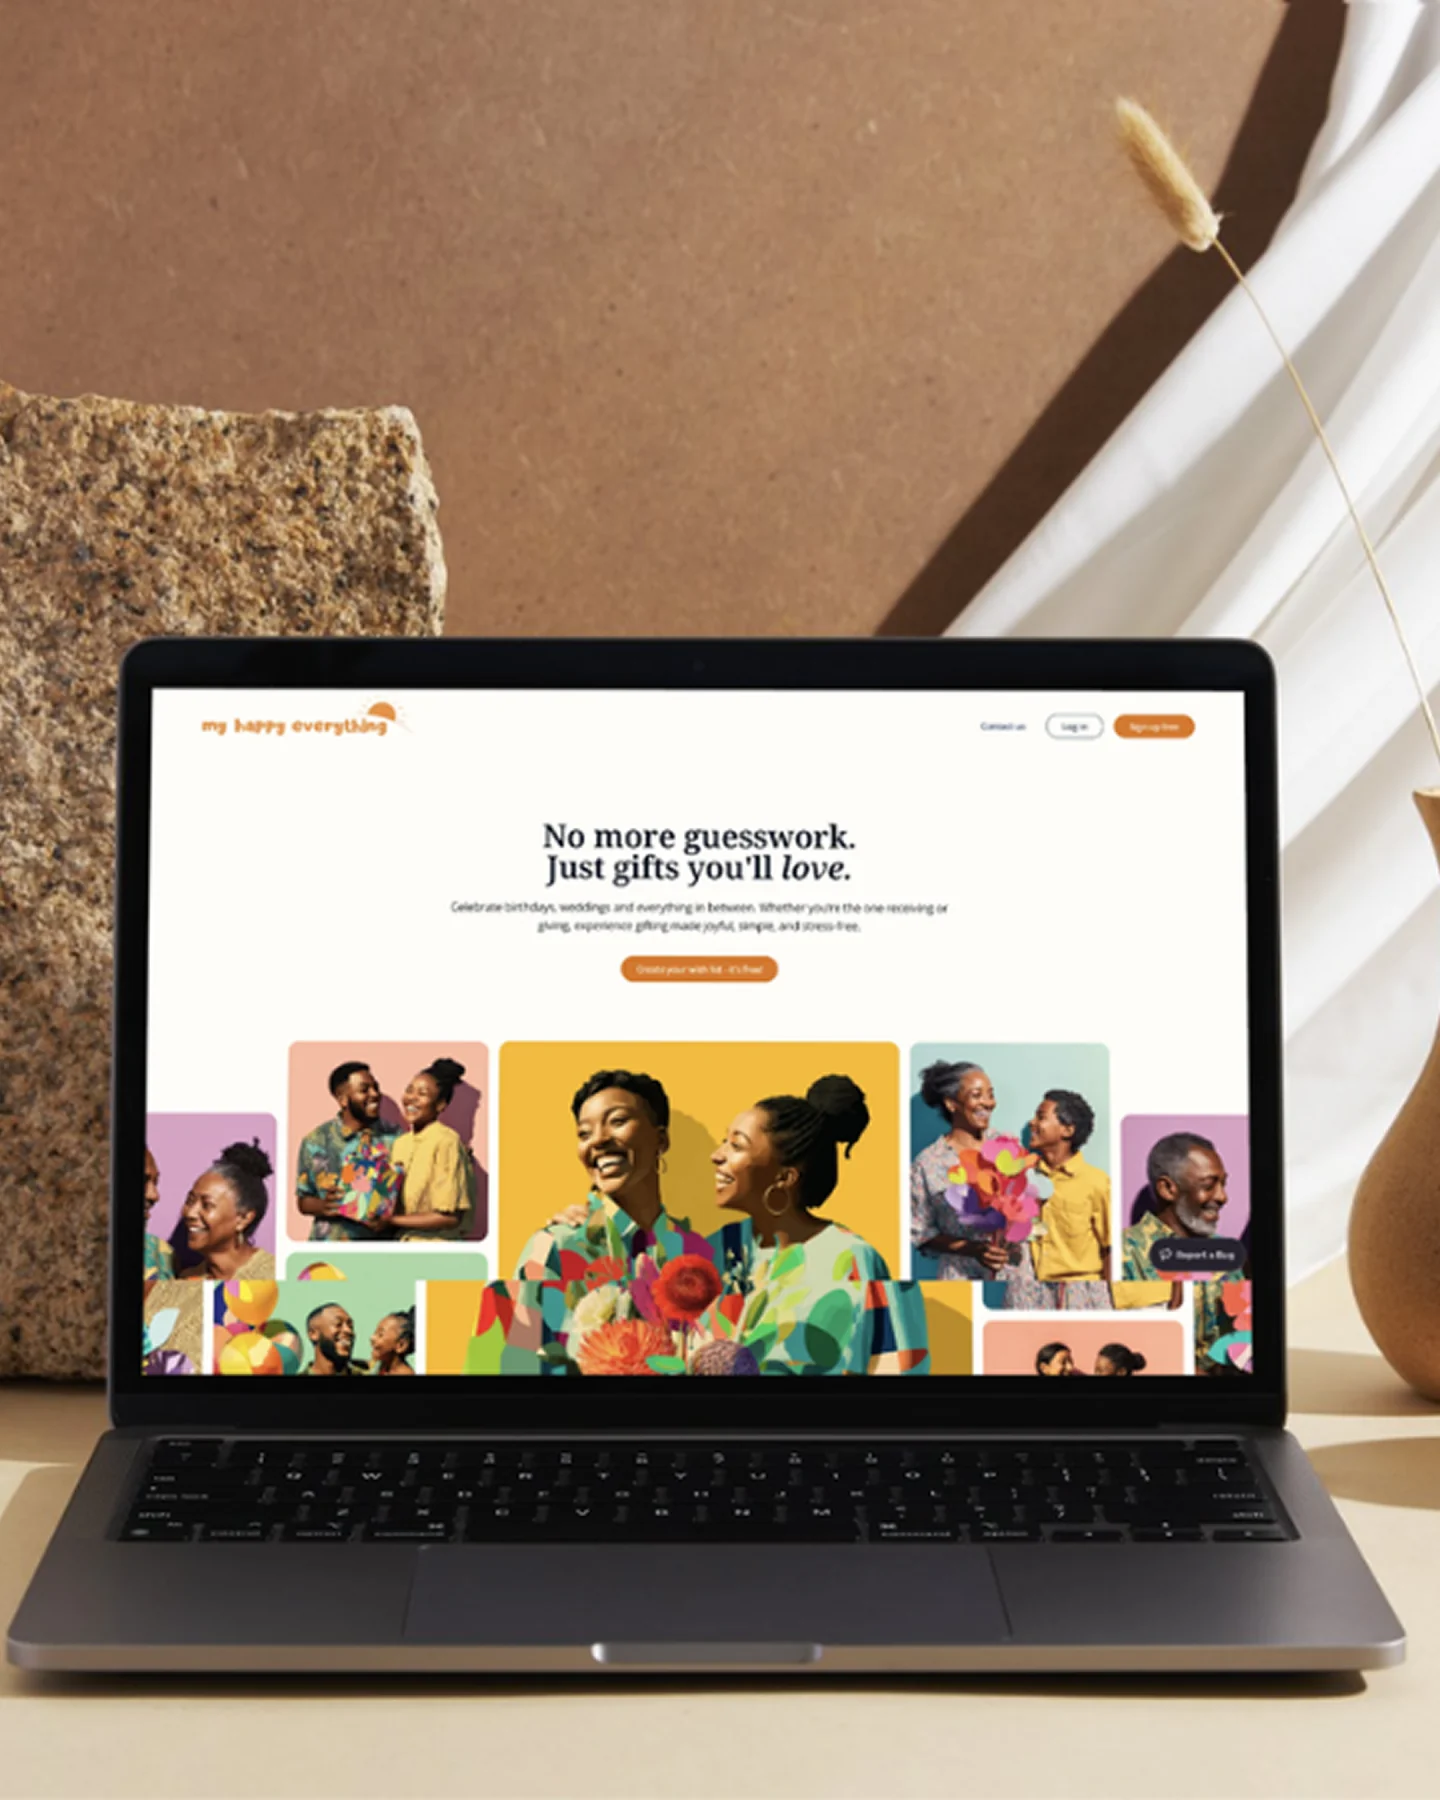
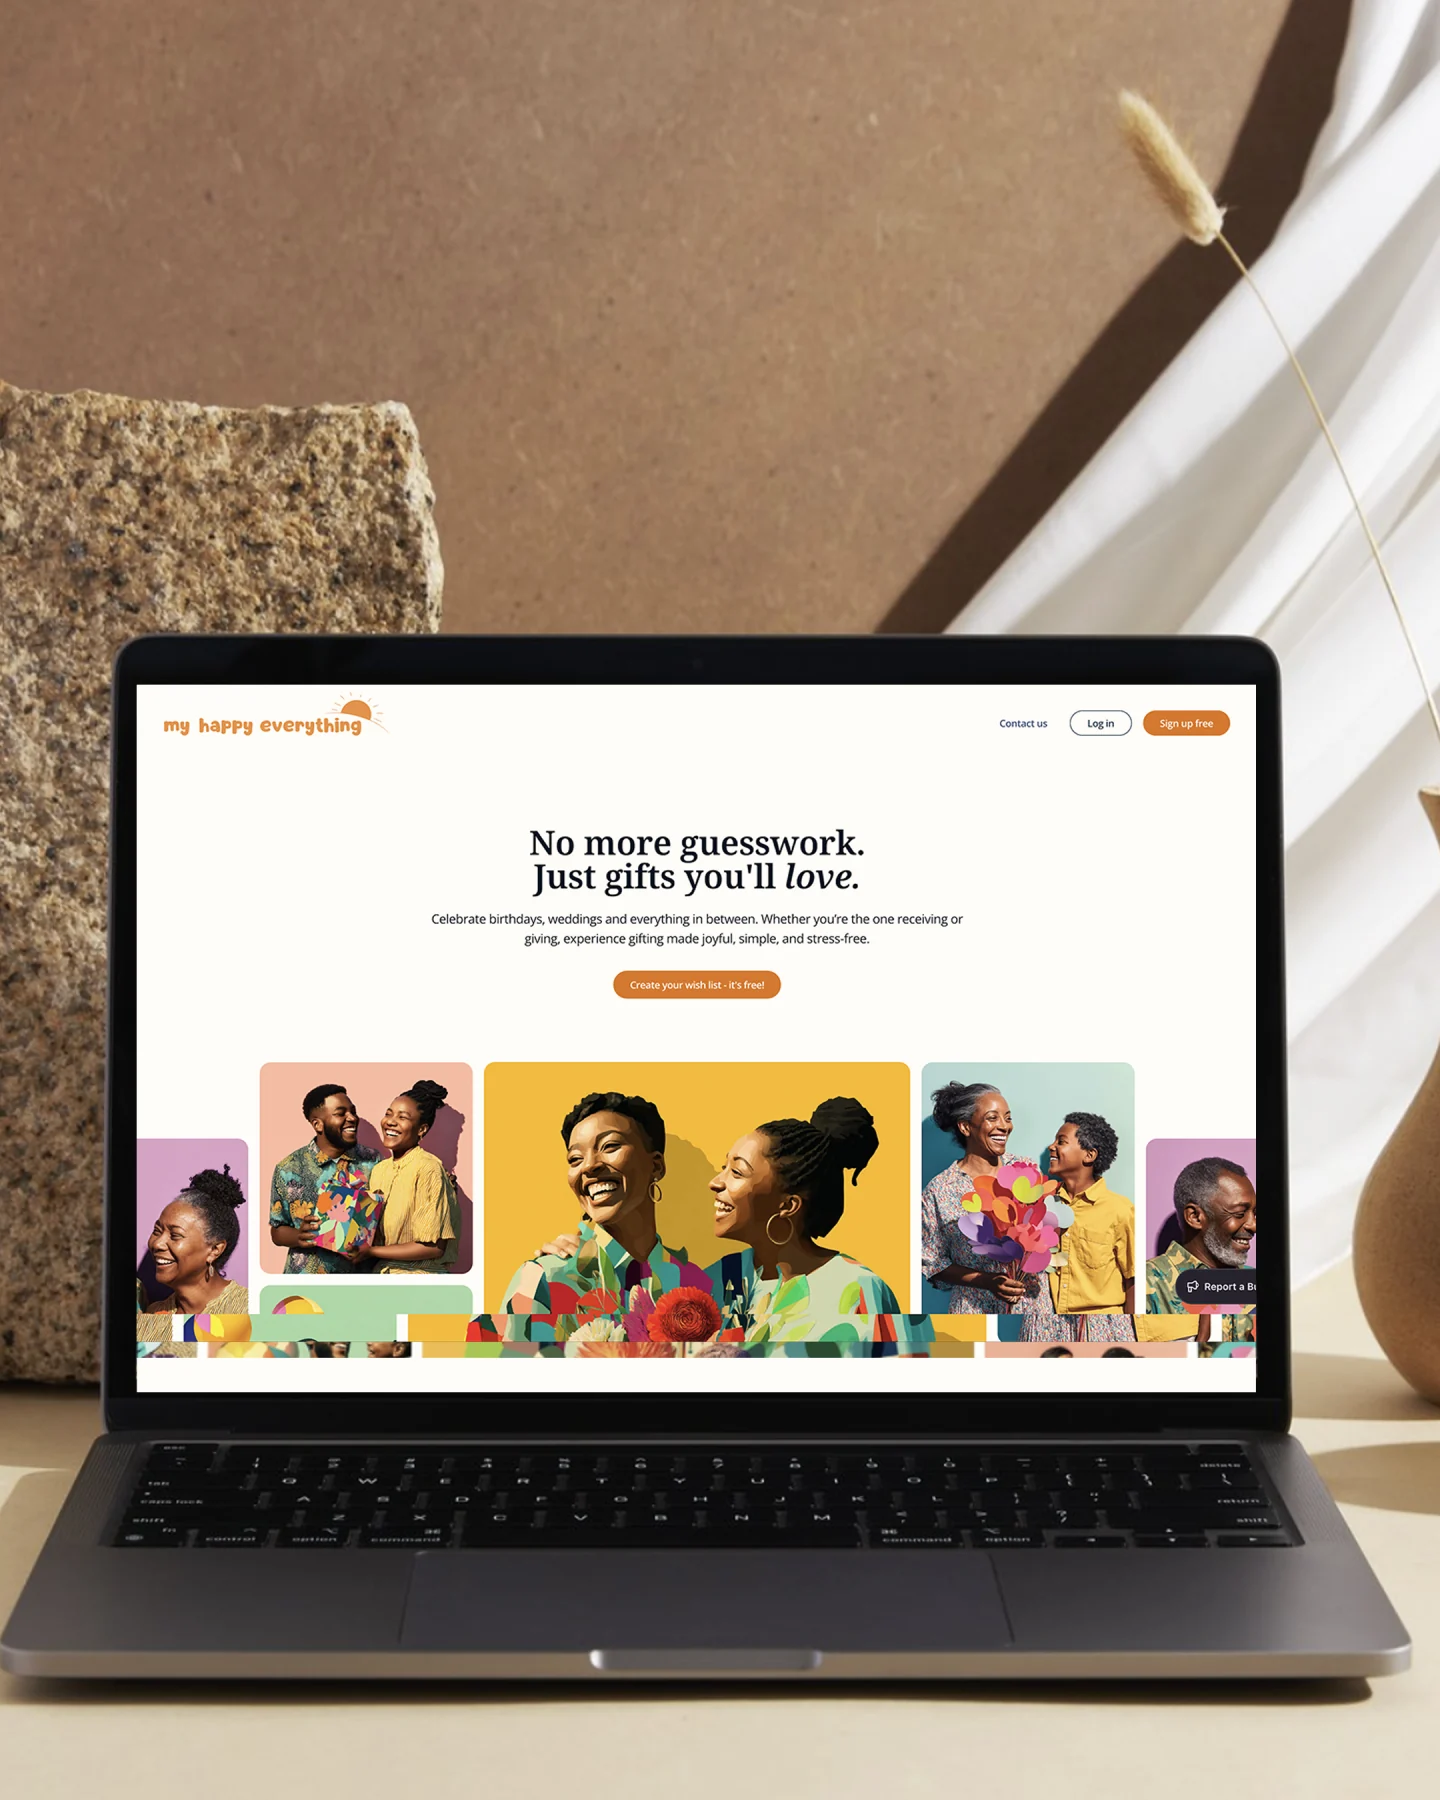
tweak hero photos and remove extras

diff --git a/src/routes/__root.tsx b/src/routes/__root.tsx
@@ -48,7 +48,7 @@ function RootDocument({ children }: { children: React.ReactNode }) {
 	return (
 		<html
 			lang="en"
-			className="bg-primary text-foreground m-0 font-sans text-base antialiased"
+			className="relative bg-primary text-foreground m-0 font-sans text-base antialiased"
 		>
 			<head>
 				<HeadContent />
